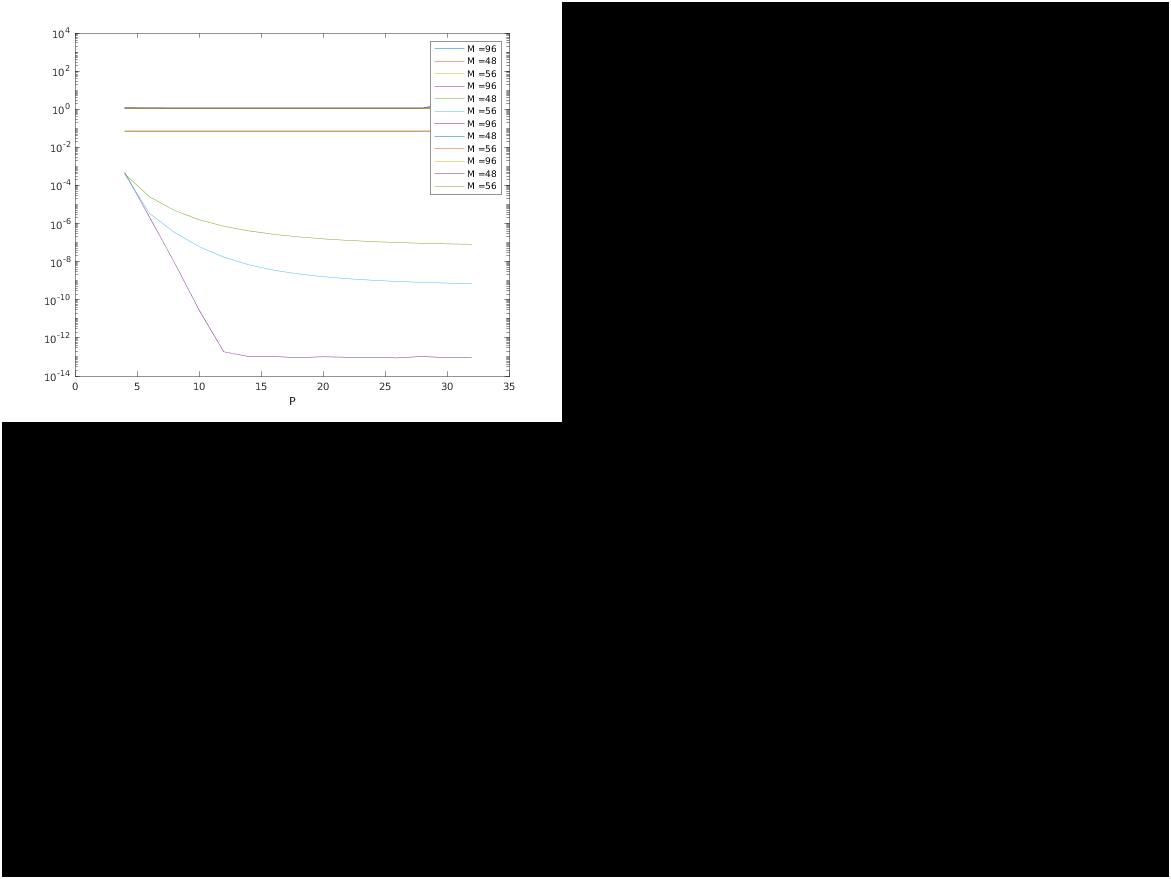
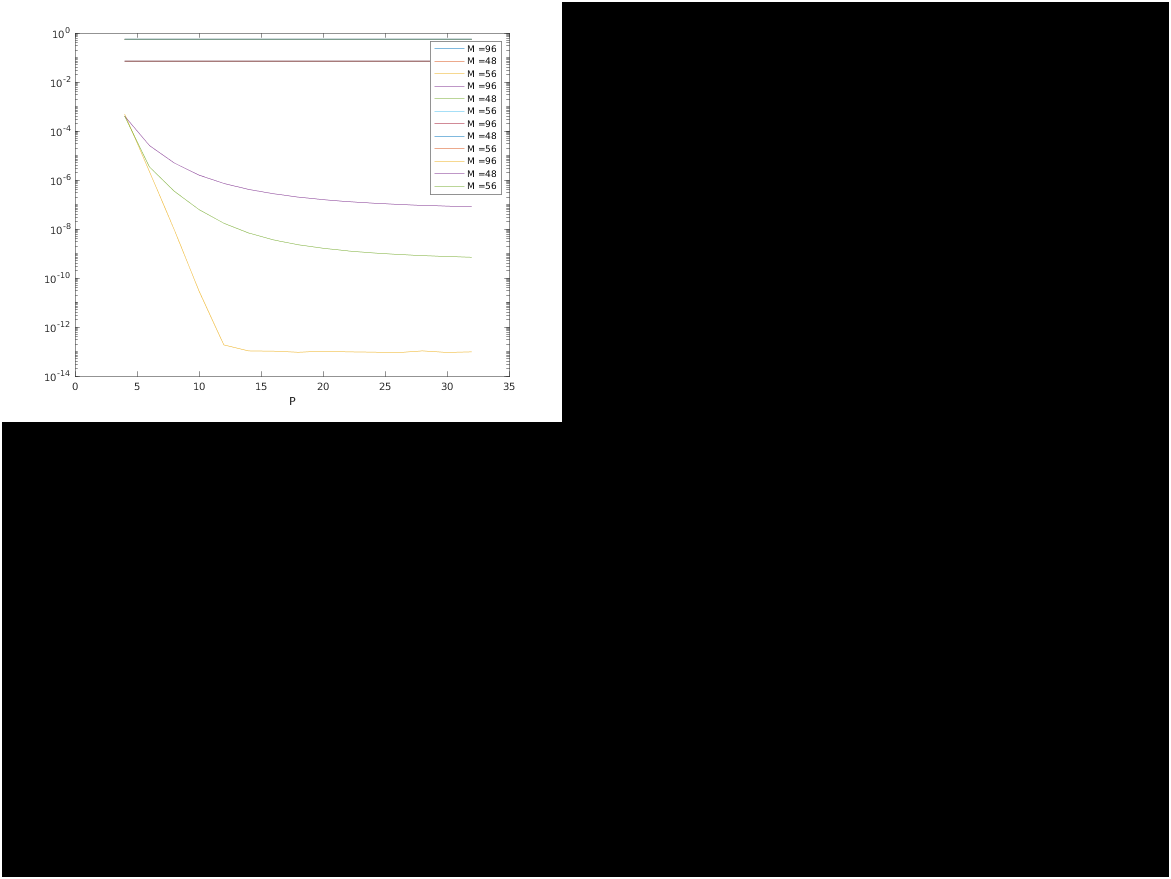
imgs

diff --git a/SE_Stokes_run/SE3P_Stokes/xiLM_balance.m b/SE_Stokes_run/SE3P_Stokes/xiLM_balance.m
@@ -42,7 +42,7 @@ str = {};
 est = @(M,xi,L,f) sqrt(f)*(xi^3*L^2/(pi^4*(M/2)^(3/2)))*exp(-(pi*(M/2)/(xi*L))^2);
 e_vec = [];
 F = sum(norm(f.^2));
-xx = [20,40];
+xx = [10,20];
 LL = [2,1];
 for xi = xx
     opt.xi = xi;
@@ -58,9 +58,7 @@ for xi = xx
                 opt.P = P;
                 u = SE3P_Stokes(1:N, x, f, opt);
                 rms_err = [rms_err rmse(u-ref)/rmse(ref)];
-            end
-            e = est(M,opt.xi,L,F);
-            e_vec = [e_vec, e];
+            end 
             semilogy(PP,rms_err)
             hold on
             str = [str strcat('M = ',num2str(M))];
